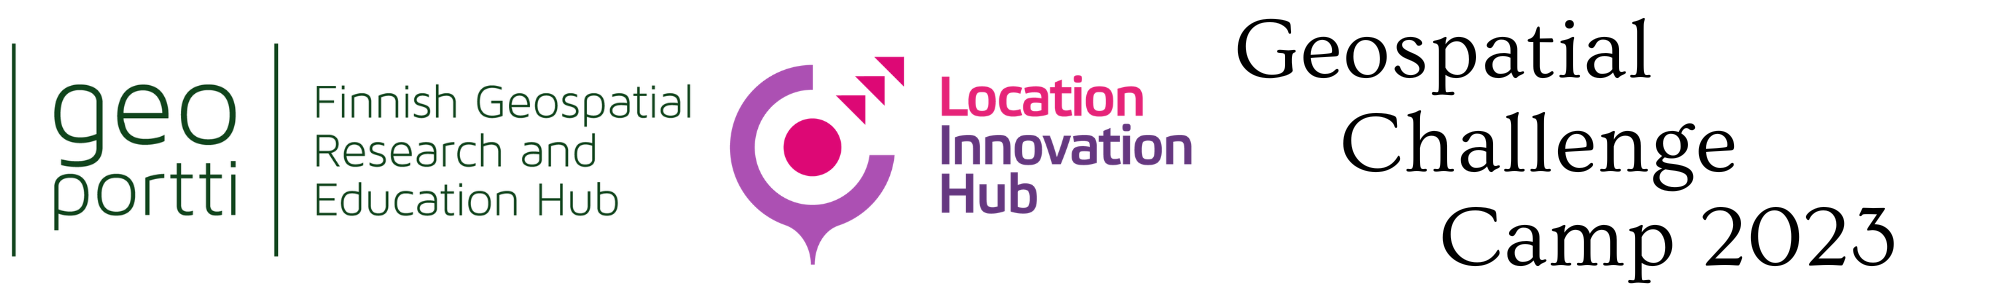
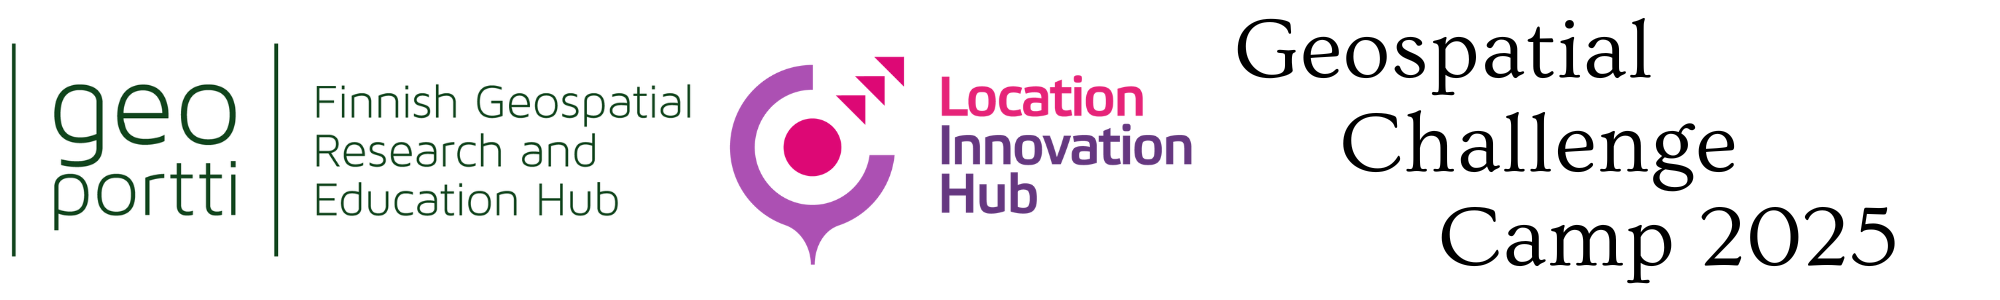
init 2025

diff --git a/source/conf.py b/source/conf.py
@@ -72,7 +72,7 @@ html_theme_options = {
     'footer_end':["version-switcher", "sphinx-version", "theme-version" ], # "version-switcher"
     'pygment_light_style': 'xcode',
     'secondary_sidebar_items': ['page-toc', 'edit-this-page'],
-    'announcement': 'Geospatial Challenge Camp 2023 has finished. Thank you all!', # to add urgent messages, Deadline extended! Sign up until the 20.09.2023
+    # 'announcement': 'Geospatial Challenge Camp 2023 has finished. Thank you all!', # to add urgent messages, Deadline extended! Sign up until the 20.09.2023
     'switcher': {
             'json_url': json_url,
             'version_match':version_match

diff --git a/source/index.rst b/source/index.rst
@@ -1,4 +1,4 @@
-.. figure:: _static/banner_end.png
+.. figure:: _static/banner_2025.jpg
 
 
 
@@ -6,21 +6,16 @@
     :gutter: 2
 
     .. grid-item-card:: :fas:`rocket` Why Geospatial Challenge Camp?
-         :link: tabs/theme.html
+         :link: index.html#latest-news
 
          Geospatial Challenge Camp aims at engaging young scientists and students 
          to solve real-world sustainability challenges with digital data and 
-         location technologies. In 2023, the topic of the challenge is 
-         *Health and Wellbeing*.
+         location technologies. Theme of 2025 to be announced soon!
 
     .. grid-item-card:: :fas:`bell` When?
-        :link: tabs/schedule.html
+        :link: index.html#sign-up
 
-        Starting on September 25-26th, 2023 with a kick-off event and 
-        closing on December 1st, 2023. Multi-disciplinary teams of 
-        young scientists work in close collaboration with different 
-        stakeholders to co-create digital and social innovations 
-        related to our health and wellbeing challenges.
+        Spring 2025! Details coming soon!
 
     .. grid-item-card:: :fas:`plug` How to cooperate with us and sign-up for the challenge?
          :link: index.html#sign-up
@@ -32,57 +27,57 @@
 
 Latest news
 ======================
-The Geospatial Challenge Camp has ended! Click on the news images to find the online material.
+The Geospatial Challenge Camp 2025 is coming soon!  Take a look the event archive.
 
 .. carousel::
     :show_controls:
     :show_indicators:
     :show_dark:
 
-    .. figure:: _static/news/news6-edited.png
-      :target: https://positio-magazine.eu/2023/12/geospatial-challenge-camps-ideas-for-the-health-and-well-being-sector-surprised-positively/
+    .. figure:: _static/news/newsn1.png
+      :target: https://challenge-camp.geoportti.fi/en/v2023/tabs/materials/final_presentations.html
 
       .. 
 
-      POSITIO Magazine article published explaining the potential of the Health solutions obtained from the Geospatial Challenge Camp 2023
+      Pitching solutions event at Geospatial Challenge Camp 2023!
 
-    .. figure:: _static/news/news5-edited.png
-      :target: https://challenge-camp.geoportti.fi/en/latest/tabs/materials/final_presentations.html
+    .. .. figure:: _static/news/news5-edited.png
+    ..   :target: https://challenge-camp.geoportti.fi/en/latest/tabs/materials/final_presentations.html
 
-      .. 
+    ..   .. 
 
-      Solutions pitching at the final event of the Geospatial Challenge Camp 2023
+    ..   Solutions pitching at the final event of the Geospatial Challenge Camp 2023
 
-    .. figure:: _static/news/news4-edited.png
-      :target: https://challenge-camp.geoportti.fi/en/latest/tabs/final_event.html 
+    .. .. figure:: _static/news/news4-edited.png
+    ..   :target: https://challenge-camp.geoportti.fi/en/latest/tabs/final_event.html 
 
-      .. 
+    ..   .. 
 
-      Stakeholders and public audience are welcome to join the Final Event and see the solution ideas of the **Geospatial Challenge Camp**
+    ..   Stakeholders and public audience are welcome to join the Final Event and see the solution ideas of the **Geospatial Challenge Camp**
 
-    .. figure:: _static/news/news1-edited.png
-      :target: https://locationinnovationhub.eu/en/news/research-teams-develop-new-solutions-for-the-health-and-well-being-sector-in-ten-weeks-966/
+    .. .. figure:: _static/news/news1-edited.png
+    ..   :target: https://locationinnovationhub.eu/en/news/research-teams-develop-new-solutions-for-the-health-and-well-being-sector-in-ten-weeks-966/
 
-      .. 
+    ..   .. 
 
-      Research teams develop new solutions for the Health and Well-being sector in GCC2023.
-      Niina Käyhkö (left) and Sanna Jokela
+    ..   Research teams develop new solutions for the Health and Well-being sector in GCC2023.
+    ..   Niina Käyhkö (left) and Sanna Jokela
 
-    .. figure:: _static/news/news2-edited.png
-      :target: https://csc-training.github.io/geocomputing_course/index.html
+    .. .. figure:: _static/news/news2-edited.png
+    ..   :target: https://csc-training.github.io/geocomputing_course/index.html
 
-      .. 
+    ..   .. 
 
-      CSC concluded the Geocomputing training with Puhti supercomputer on 12.-13.10.2023.
-      Check the open material
+    ..   CSC concluded the Geocomputing training with Puhti supercomputer on 12.-13.10.2023.
+    ..   Check the open material
 
-    .. figure:: _static/news/news3-edited.png
-      :target: https://challenge-camp.geoportti.fi/en/latest/tabs/materials/opening_first_day.html
+    .. .. figure:: _static/news/news3-edited.png
+    ..   :target: https://challenge-camp.geoportti.fi/en/latest/tabs/materials/opening_first_day.html
 
-      .. 
+    ..   .. 
 
-      The kick-off opening event introduced the partners and the them on 25.-26.09.2023.
-      Find the partner's presentation online
+    ..   The kick-off opening event introduced the partners and the them on 25.-26.09.2023.
+    ..   Find the partner's presentation online
 
 
 Sign up
@@ -90,7 +85,7 @@ Sign up
 
 .. attention:: 
     
-    Registration is closed!
+    Coming soon!
 ..
   .. raw:: html
     
@@ -122,7 +117,8 @@ Sign up
 ..
   .. container:: custom-button
 
-    `Sign Up <https://forms.gle/Emo8MP8SNZfvcxqJ8>`__
+    `Sign Up <index.html#sign-up>`__
+    
 ..
   .. raw:: html
 
@@ -180,29 +176,9 @@ Trusted partners
     :show_indicators:
     :show_dark:
 
-    .. figure:: _static/logos/geoforum_c.png
-
-      www.geoforum.fi
-
-    .. figure:: _static/logos/healthhub_c.png
-      
-      www.healthhub.fi
-
-    .. figure:: _static/logos/csc_c.png
+    .. figure:: _static/logos/geoportti_c.png
          
-      www.csc.fi
-
-    .. figure:: _static/logos/gispo_c.png
-         
-      www.gispo.fi
-
-    .. figure:: _static/logos/syke_c.png
-         
-      www.syke.fi
-
-    .. figure:: _static/logos/varha_c.png
-         
-      www.varha.fi
+      www.geoportti.fi
 
     .. figure:: _static/logos/uturku_c.png
          
@@ -216,29 +192,53 @@ Trusted partners
          
       www.aalto.fi
 
-    .. figure:: _static/logos/geoportti_c.png
+    
+
+    .. .. figure:: _static/logos/geoforum_c.png
+
+    ..   www.geoforum.fi
+
+    .. .. figure:: _static/logos/healthhub_c.png
+      
+    ..   www.healthhub.fi
+
+    .. .. figure:: _static/logos/csc_c.png
          
-      www.geoportti.fi
+    ..   www.csc.fi
+
+    .. .. figure:: _static/logos/gispo_c.png
+         
+    ..   www.gispo.fi
+
+    .. .. figure:: _static/logos/syke_c.png
+         
+    ..   www.syke.fi
+
+    .. .. figure:: _static/logos/varha_c.png
+         
+    ..   www.varha.fi
+
+
 
    
 
 
 
 
-.. toctree::
-   :maxdepth: 2
-   :caption: Contents:
-   :hidden:
+.. .. toctree::
+..    :maxdepth: 2
+..    :caption: Contents:
+..    :hidden:
 
 
-   Theme<tabs/theme>
-   Partners<tabs/partners>
-   Researchers and Students<tabs/researchers>
-   Full schedule<tabs/schedule>
-   Kick-off meeting<tabs/kick_off>
-   Mid-term meeting<tabs/mid_term>
-   Final event<tabs/final_event>
-   Materials & Info<tabs/materials/index>
+..    Theme<tabs/theme>
+..    Partners<tabs/partners>
+..    Researchers and Students<tabs/researchers>
+..    Full schedule<tabs/schedule>
+..    Kick-off meeting<tabs/kick_off>
+..    Mid-term meeting<tabs/mid_term>
+..    Final event<tabs/final_event>
+..    Materials & Info<tabs/materials/index>
 
 
 
